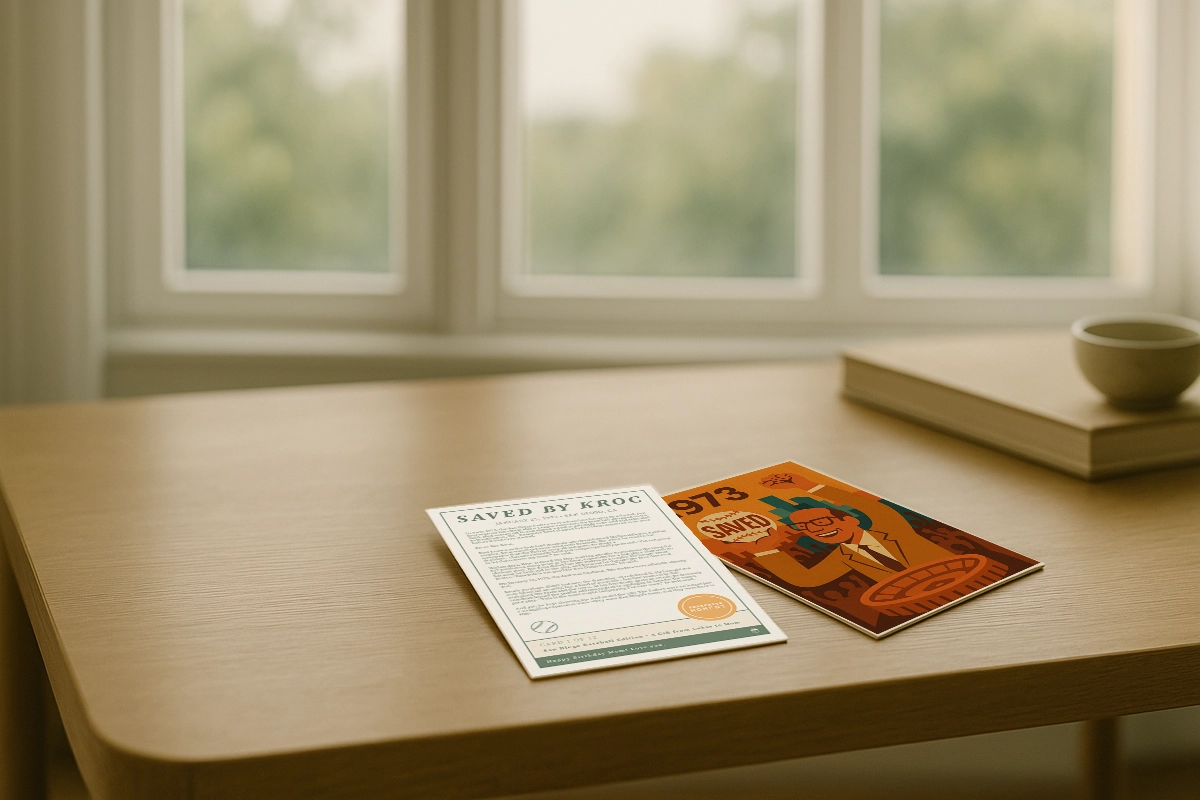
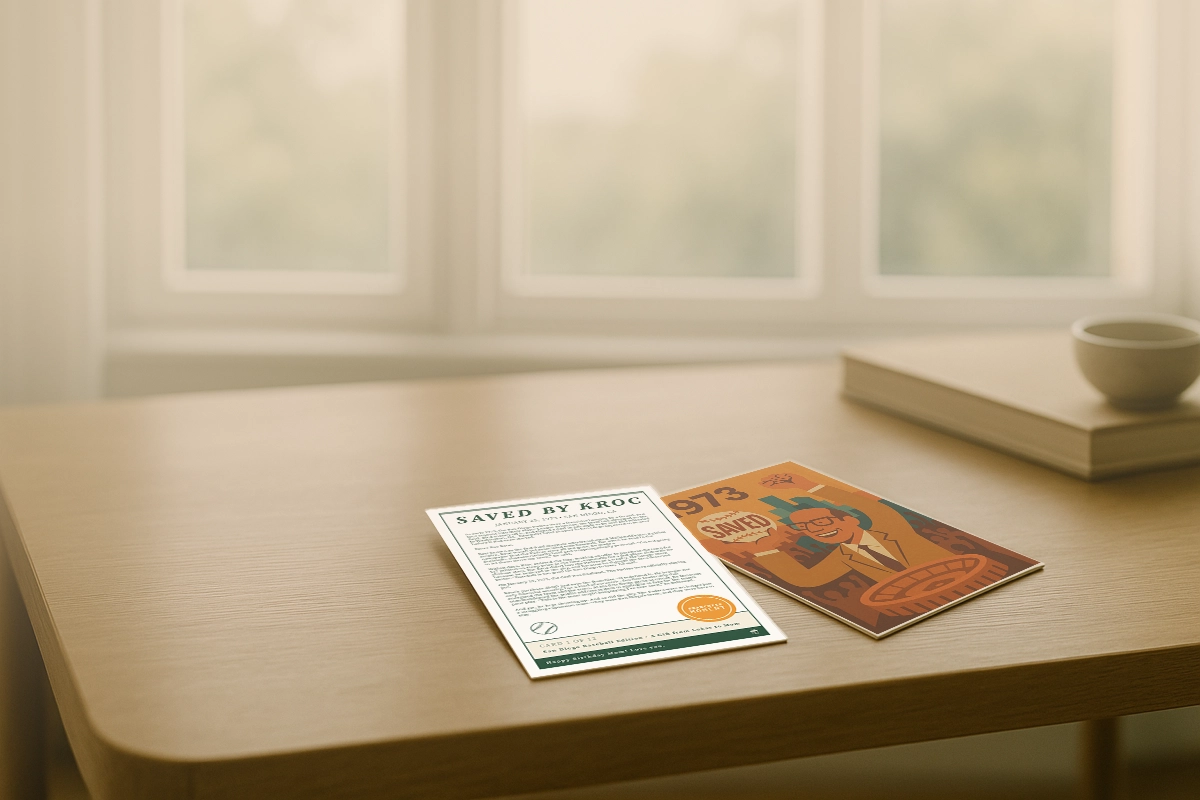
new HERO IMAGE

diff --git a/src/components/HeroSection.tsx b/src/components/HeroSection.tsx
@@ -62,24 +62,27 @@ const HeroSection = () => {
   };
 
   return (
-    <section className="w-full py-20 md:py-32 bg-legacy-cream flex flex-col items-center justify-center relative overflow-hidden">
+    <section className="w-full min-h-screen md:h-auto md:py-32 flex flex-col items-center justify-center relative overflow-hidden">
       {/* Add the keyframes to the document */}
       <style>{shimmerKeyframes}</style>
       
-      {/* Background decorative elements */}
-      <div className="absolute top-0 left-0 w-full h-full overflow-hidden opacity-5 pointer-events-none">
-        <div className="absolute -top-24 -left-24 w-64 h-64 rounded-full border-8 border-legacy-green"></div>
-        <div className="absolute top-1/2 -right-24 w-48 h-48 rounded-full border-8 border-legacy-gold"></div>
+      {/* Background image */}
+      <div className="absolute inset-0 w-full h-full">
+        <img 
+          src="/styles/hero-window-with-two-cards.webp" 
+          alt="Hero Background" 
+          className="w-full h-full object-cover"
+        />
       </div>
       
-      <div className="container mx-auto px-6 flex flex-col md:flex-row items-center gap-10 relative z-10">
-        <div className="w-full md:w-1/2 text-left animate-slide-in-from-left">
+      <div className="container mx-auto px-6 flex flex-col h-screen md:h-auto relative z-10">
+        <div className="w-full text-left animate-slide-in-from-left mt-28 md:mt-0">
           {/* Hero headline */}
           <div>
-            <h1 className="text-[clamp(42px,6vw,72px)] leading-[1.1] font-bold mb-2 font-playfair text-legacy-green">
+            <h1 className="text-[28px] md:text-[72px] leading-[1.1] font-bold mb-2 font-playfair text-legacy-green">
               stories
             </h1>
-            <h1 className="text-[clamp(29px,4.2vw,50px)] leading-[1.1] font-normal mb-6 font-playfair text-legacy-green">
+            <h1 className="text-[22px] md:text-[50px] leading-[1.1] font-normal mb-6 font-playfair text-legacy-green">
               <span>make </span>
               <span 
                 className="relative inline-block"
@@ -109,29 +112,29 @@ const HeroSection = () => {
           </div>
           
           {/* Subtext */}
-          <div className="space-y-4 text-[clamp(16px,1.25vw,20px)] mb-8 text-[#444] leading-relaxed">
-            <p>
+          <div className="space-y-3 md:space-y-4 mb-6 md:mb-8 text-[#444] leading-relaxed">
+            <p className="text-[13px] md:text-[20px]">
               <span className="mr-2">🎨</span> we <span 
                 className="bold-animate"
                 style={{ fontWeight: 400 }}
                 data-delay="1.5"
               >illustrate</span> them beautifully
             </p>
-            <p>
+            <p className="text-[13px] md:text-[20px]">
               <span className="mr-2">✍</span> <span 
                 className="bold-animate"
                 style={{ fontWeight: 400 }}
                 data-delay="2.3"
               >craft</span> them thoughtfully
             </p>
-            <p>
+            <p className="text-[13px] md:text-[20px]">
               <span className="mr-2">📦</span> <span 
                 className="bold-animate"
                 style={{ fontWeight: 400 }}
                 data-delay="3.1"
               >package</span> them perfectly
             </p>
-            <p>
+            <p className="text-[13px] md:text-[20px]">
               <span className="mr-2">📬</span> and <span 
                 className="bold-animate"
                 style={{ fontWeight: 400 }}
@@ -141,9 +144,9 @@ const HeroSection = () => {
           </div>
 
           {/* Callout section */}
-          <div className="mb-12">
-            <p className="text-xl font-bold text-legacy-green mb-4">the best part?</p>
-            <p className="text-[clamp(14px,1.1vw,18px)] text-[#444]">
+          <div className="mb-8 md:mb-12">
+            <p className="text-base md:text-xl font-bold text-legacy-green mb-2 md:mb-4">the best part?</p>
+            <p className="text-[11px] md:text-[18px] text-[#444]">
               <span className="font-bold text-legacy-green/90">you get the credit</span> for making their day —<br />
               again and again, <span 
                 className="bold-animate"
@@ -152,26 +155,17 @@ const HeroSection = () => {
               >for a whole year</span>
             </p>
           </div>
-          
-          <div className="flex justify-center md:justify-start animate-slide-in-from-left-delayed">
-            <Button 
-              className="bg-legacy-green hover:bg-legacy-green/90 text-white py-6 px-8 rounded text-lg"
-              onClick={handleScrollToStorySelector}
-            >
-              start a story
-              <ArrowRight className="ml-2 h-5 w-5" />
-            </Button>
-          </div>
         </div>
         
-        <div className="w-full md:w-1/2 mt-10 md:mt-0">
-          <div className="flex justify-center">
-            <img 
-              src="/lovable-uploads/004710e3-87a5-4295-8e50-1382f0a1a4d4.png" 
-              alt="Legacy Locker Card Sample" 
-              className="max-h-[600px] w-auto object-contain drop-shadow-xl transform rotate-3"
-            />
-          </div>
+        {/* Button container positioned at bottom on mobile */}
+        <div className="flex justify-start mt-auto md:mt-0 mb-12 md:mb-0 animate-slide-in-from-left-delayed">
+          <Button 
+            className="w-full md:w-auto py-4 md:py-6 px-6 md:px-8 text-base md:text-lg bg-legacy-green hover:bg-legacy-green/90 text-white rounded justify-center"
+            onClick={handleScrollToStorySelector}
+          >
+            start a story
+            <ArrowRight className="ml-2 h-5 w-5" />
+          </Button>
         </div>
       </div>
     </section>

diff --git a/src/components/Navbar.tsx b/src/components/Navbar.tsx
@@ -83,7 +83,7 @@ const Navbar = () => {
           <div className={`md:hidden mt-4 pb-4 rounded-lg shadow-lg ${
             scrolled 
               ? 'bg-legacy-cream/50 backdrop-blur-md backdrop-saturate-150' 
-              : 'bg-white'
+              : 'bg-white/90 backdrop-blur-sm'
           }`}>
             <div className="flex flex-col space-y-3">
               <a 

diff --git a/src/pages/Index.tsx b/src/pages/Index.tsx
@@ -24,7 +24,7 @@ const Index = () => {
   return (
     <div className="flex flex-col min-h-screen">
       <Navbar />
-      <main className="flex-grow pt-16">
+      <main className="flex-grow">
         <HeroSection />
         <NarrativeExplainerSection />
         <SignatureEditionsSection />
